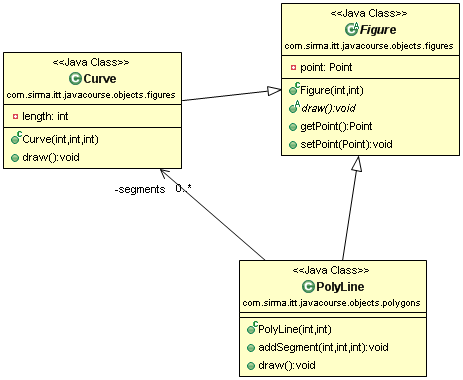
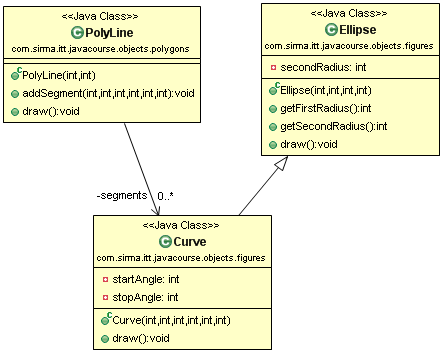
Chnaged the hierarchy of the figures

diff --git a/Objects-in-Java/src/main/java/com/sirma/itt/javacourse/objects/figures/Curve.java b/Objects-in-Java/src/main/java/com/sirma/itt/javacourse/objects/figures/Curve.java
@@ -1,11 +1,14 @@
 package com.sirma.itt.javacourse.objects.figures;
 
 /**
+ * Represents a curve figure.
+ * 
  * @author smustafov
  */
-public class Curve extends Figure {
+public class Curve extends Ellipse {
 
-	private int length;
+	private int startAngle;
+	private int stopAngle;
 
 	/**
 	 * Creates new Curve.
@@ -14,12 +17,19 @@ public class Curve extends Figure {
 	 *            - the X coordinate
 	 * @param y
 	 *            - the Y coordinate
-	 * @param length
-	 *            - the length of the curve
+	 * @param width
+	 *            - the width of the curve
+	 * @param height
+	 *            - the height of the curve
+	 * @param startAngle
+	 *            - the starting angle of the curve
+	 * @param stopAngle
+	 *            - the ending angle of the curve
 	 */
-	public Curve(int x, int y, int length) {
-		super(x, y);
-		this.length = length;
+	public Curve(int x, int y, int width, int height, int startAngle, int stopAngle) {
+		super(x, y, width, height);
+		this.startAngle = startAngle;
+		this.stopAngle = stopAngle;
 	}
 
 	@Override
@@ -28,7 +38,9 @@ public class Curve extends Figure {
 		System.out.println("Curve:");
 		System.out.printf("\tStart point : (%d,%d)" + System.lineSeparator(), getPoint().getX(),
 				getPoint().getY());
-		System.out.printf("\tLength : %d" + System.lineSeparator(), length);
+		System.out.printf("\tWidth : %d" + System.lineSeparator(), super.getFirstRadius());
+		System.out.printf("\tWidth : %d" + System.lineSeparator(), super.getSecondRadius());
+		System.out.printf("\tStart angle : %d" + System.lineSeparator(), startAngle);
+		System.out.printf("\tEnd angle : %d" + System.lineSeparator(), stopAngle);
 	}
-
 }

diff --git a/Objects-in-Java/src/main/java/com/sirma/itt/javacourse/objects/polygons/PolyLine.java b/Objects-in-Java/src/main/java/com/sirma/itt/javacourse/objects/polygons/PolyLine.java
@@ -34,11 +34,17 @@ public class PolyLine extends Figure {
 	 *            - the X coordinate
 	 * @param y
 	 *            - the Y coordinate
-	 * @param length
-	 *            - the length of the line
+	 * @param width
+	 *            - the width of the curve
+	 * @param height
+	 *            - the height of the curve
+	 * @param startAngle
+	 *            - the starting angle of the curve
+	 * @param stopAngle
+	 *            - the ending angle of the curve
 	 */
-	public void addSegment(int x, int y, int length) {
-		segments.add(new Curve(x, y, length));
+	public void addSegment(int x, int y, int width, int height, int startAngle, int stopAngle) {
+		segments.add(new Curve(x, y, width, height, startAngle, stopAngle));
 	}
 
 	@Override

diff --git a/Objects-in-Java/src/main/java/com/sirma/itt/javacourse/objects/figures/Ellipse.java b/Objects-in-Java/src/main/java/com/sirma/itt/javacourse/objects/figures/Ellipse.java
@@ -26,6 +26,20 @@ public class Ellipse extends Circle {
 		this.secondRadius = secondRadius;
 	}
 
+	/**
+	 * @return - the first radius of the ellipse
+	 */
+	public int getFirstRadius() {
+		return super.getRadius();
+	}
+
+	/**
+	 * @return - the second radius of the ellipse
+	 */
+	public int getSecondRadius() {
+		return secondRadius;
+	}
+
 	@Override
 	public void draw() {
 		System.out.println();

diff --git a/Objects-in-Java/src/main/java/com/sirma/itt/javacourse/objects/quadrilaterals/Rectangle.java b/Objects-in-Java/src/main/java/com/sirma/itt/javacourse/objects/quadrilaterals/Rectangle.java
@@ -3,7 +3,7 @@ package com.sirma.itt.javacourse.objects.quadrilaterals;
 import com.sirma.itt.javacourse.objects.figures.Figure;
 
 /**
- * Represents rectagle figure.
+ * Represents rectangle figure.
  * 
  * @author smustafov
  */

diff --git a/Objects-in-Java/src/main/java/com/sirma/itt/javacourse/objects/quadrilaterals/Square.java b/Objects-in-Java/src/main/java/com/sirma/itt/javacourse/objects/quadrilaterals/Square.java
@@ -3,7 +3,7 @@ package com.sirma.itt.javacourse.objects.quadrilaterals;
 import com.sirma.itt.javacourse.objects.figures.Figure;
 
 /**
- * Represents square figure.
+ * Represents a square figure.
  * 
  * @author smustafov
  */

diff --git a/Objects-in-Java/src/main/java/com/sirma/itt/javacourse/objects/figures/Circle.java b/Objects-in-Java/src/main/java/com/sirma/itt/javacourse/objects/figures/Circle.java
@@ -1,6 +1,8 @@
 package com.sirma.itt.javacourse.objects.figures;
 
 /**
+ * Represents a circle figure.
+ * 
  * @author smustafov
  */
 public class Circle extends Figure {
